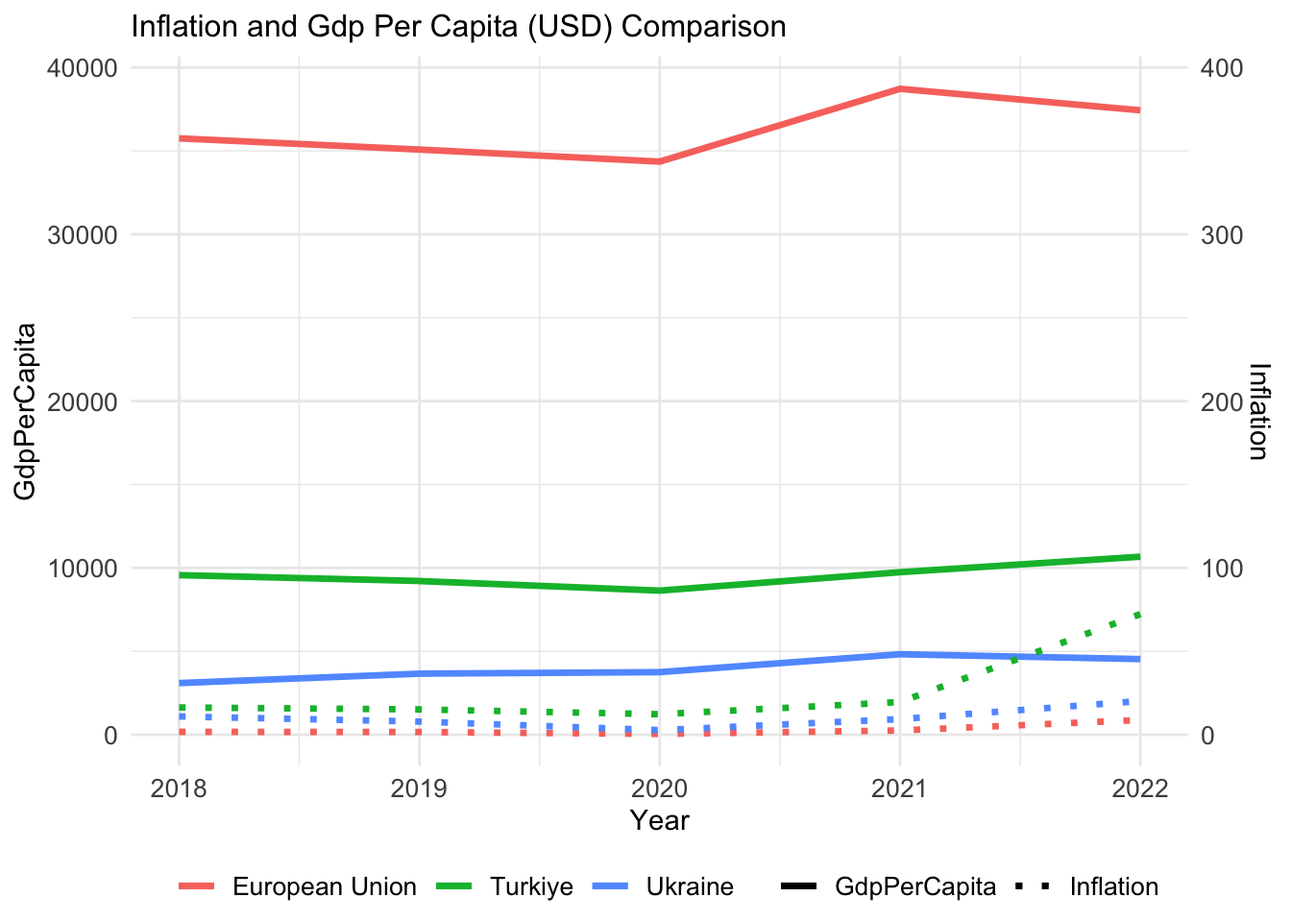
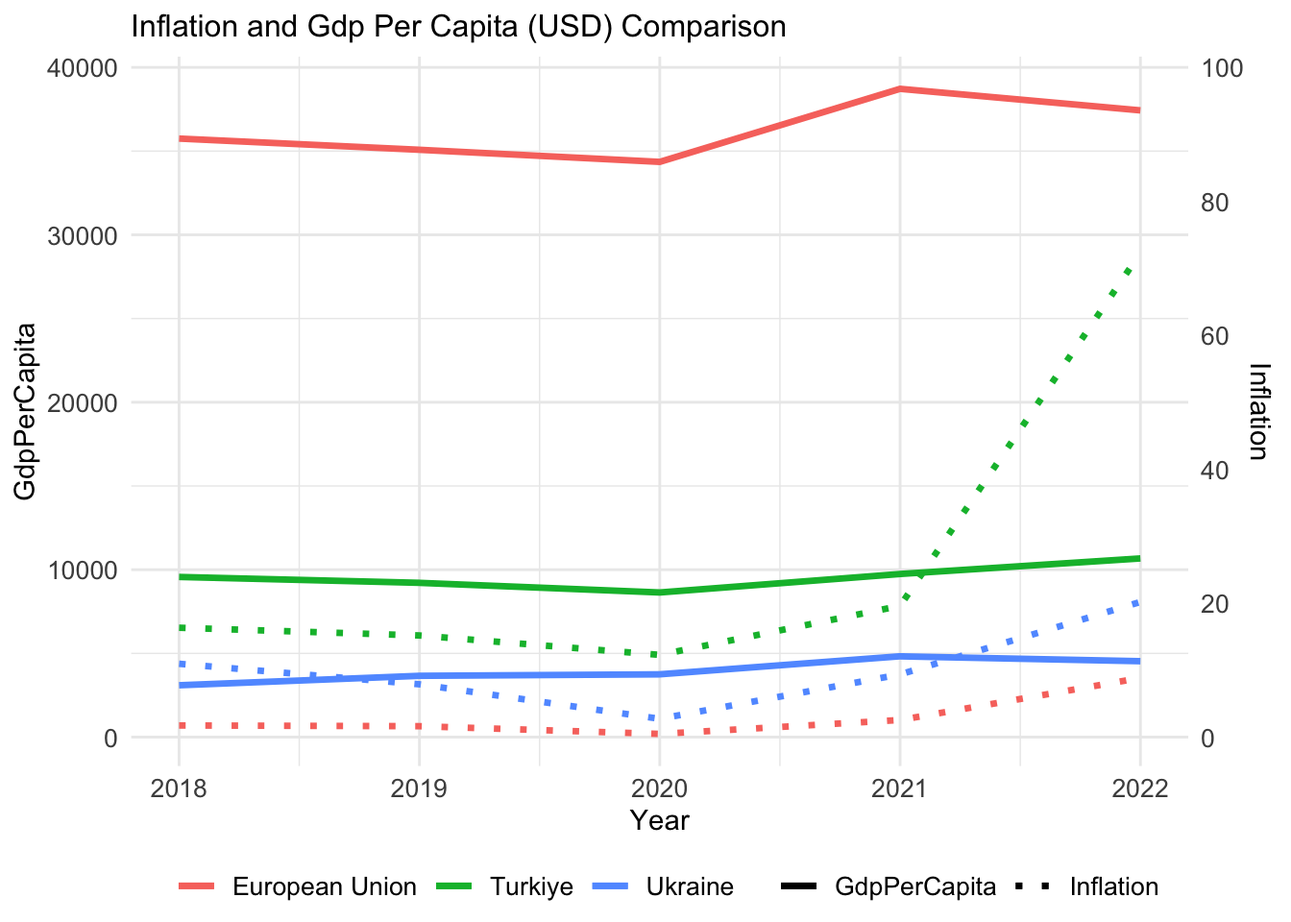
upd

diff --git a/docs/report.html b/docs/report.html
@@ -6,7 +6,7 @@
 
 <meta name="viewport" content="width=device-width, initial-scale=1.0, user-scalable=yes">
 
-<meta name="dcterms.date" content="2023-12-29">
+<meta name="dcterms.date" content="2023-12-30">
 
 <title>Astral Projection’s Progress Journal - Final Report</title>
 <style>
@@ -216,7 +216,7 @@ pre > code.sourceCode > span > a:first-child::before { text-decoration: underlin
     <div>
     <div class="quarto-title-meta-heading">Published</div>
     <div class="quarto-title-meta-contents">
-      <p class="date">December 29, 2023</p>
+      <p class="date">December 30, 2023</p>
     </div>
   </div>
   
@@ -243,17 +243,21 @@ pre > code.sourceCode > span > a:first-child::before { text-decoration: underlin
 <section id="key-takeaways" class="level3">
 <h3 class="anchored" data-anchor-id="key-takeaways">Key Takeaways:</h3>
 <ol type="1">
-<li><p>Turkey’s larger GDP and population compared to Ukraine indicate that Turkey has a greater economic volume.</p></li>
-<li><p>In Ukraine, despite the decrease in population from 2018 to 2022, the age dependency ratio generally follows an upward trend. This could be linked to the younger and working-age population leaving the country due to the war that started in 2022, and potentially losing their lives.</p></li>
-<li><p>The inflation rates in Turkey and Ukraine have significantly increased due to economic and political factors. While high inflation has triggered an economic crisis in Turkey, the ongoing war and political instability in Ukraine have caused inflation to rise.</p></li>
-<li><p>In Turkey, although the unemployment rate showed fluctuations, it remained below the levels of 2018. In Ukraine, there has been a decrease in both male and female labor force participation rates below 2018 levels. This suggests serious issues in the labor markets of both Turkey and Ukraine.</p></li>
+<li><p>This report provides a comparative assessment of the credentials of Turkiye and Ukraine, two candidates for European Union (EU) membership, using World Bank - World Development Indicators data from 2018 to 2022 by using key indicators such as population totals, GDP per capita, age dependency ratios, inflation, unemployment rates, and gender-specific labor force participation rates were essential in this evaluation of their socio-economic landscapes. (LINK row+used)</p></li>
+<li><p>The post- COVID-19 global economic landscape significantly affected these nations. Turkiye, battling the highest inflation among the three entities, showed a dramatically heightened inflation rate in 2022, which was about four times the rate of the previous year.</p></li>
+<li><p>Turkiye’s larger GDP per capita, population, and a comparatively lower age dependency ratio puts it in a potentially advantageous position for EU membership. However, both countries face challenges in labor dynamics such as unemployment and labor force participation rates.</p></li>
+<li><p>The effects of war in Ukraine have contributed to a major decline in the country’s population and an increase in their age dependency ratio due to a decline in the young and potentially working-age population.</p></li>
+<li><p>With its overall economic state and younger population, Turkiye might be slightly in a more favorable position for EU candidacy. However, although both countries possess compelling economic and demographic capacities, they need to address crucial changes in areas such as political stability and economic harmonization to advance their pursuit of EU accession.</p></li>
 </ol>
 </section>
 <section id="outcomes" class="level3">
 <h3 class="anchored" data-anchor-id="outcomes">Outcomes:</h3>
 <section id="gdp-per-capita" class="level4">
 <h4 class="anchored" data-anchor-id="gdp-per-capita">GDP per Capita:</h4>
-<p>The GDP per Capita Comparison graph highlights distinct economic trends for each country/region. Ukraine’s GDP is approximately 5 million, while Turkiye’s is around 10 million, signifying that Turkiye’s GDP is twice the size of Ukraine’s. It’s important to note that these figures are not only influenced by economic trends but also by demographic factors. With Turkiye’s population being 1.5 times larger than Ukraine’s, it further accentuates that Turkiye has a larger economic volume compared to Ukraine.</p>
+<p>The GDP per Capita Comparison graph reveals unique economic trajectories for each country or region. The data shows that the European Union, comprising 27 member countries, consistently maintains the highest GDP per capita among the three regions.</p>
+<p>In 2018, the European Union’s GDP per capita stood at approximately $35,700. It experienced a slight downturn in 2019 and 2020, but rebounded robustly in 2021 to nearly $38,700, and continues to perform strongly in 2022 at about $37,400.</p>
+<p>In contrast, Ukraine’s GDP per capita hovers around $5 million, while Turkiye’s stands near $10 million, indicating that Turkiye’s GDP per capita is double that of Ukraine’s. Moreover, Turkiye’s population is 1.5 times larger than Ukraine’s, affirming its larger economic scale.</p>
+<p>Notably, the European Union’s GDP per capita is over four times that of Turkiye and approximately twelve times that of Ukraine, highlighting the economic strength of the European Union. However, it is crucial to consider the Union’s significantly larger population and diverse economies, which contribute to this superior statistical performance.</p>
 <div class="cell">
 <details>
 <summary>Code</summary>
@@ -279,9 +283,7 @@ pre > code.sourceCode > span > a:first-child::before { text-decoration: underlin
 </section>
 <section id="population-and-age-dependency" class="level4">
 <h4 class="anchored" data-anchor-id="population-and-age-dependency">Population and Age Dependency:</h4>
-<p>Upon examining the data, a clear correlation between population and age dependency ratio can be observed. In both the European Union and in Turkiye and Ukraine, the population and age dependency ratio generally increase together ( except Ukraine for 2022).</p>
-<p>In the European Union, while the population shows a slight increase from the year 2018 to 2022 (from 447.1M to 447.3M), the age dependency ratio also rises during this period, from 54.66 to 56.57. This indicates that as the population ages, older individuals’ dependency on the younger population increases.</p>
-<p>In Turkiye, the population is increasing every year as well (from 81.4M to 84.9M) and the age dependency ratio also rises in a similar way, from 46.30 to 46.77. This points out that Turkiye is also gradually aging.</p>
+<p>In the context of population, both the European Union and Turkiye exhibit a gradual increase over the years examined. The population of the European Union saw a slight increase from 447.1 million in 2018 to 447.3 million in 2022. Turkiye’s growth was more pronounced, rising annually from 81.4 million to 84.9 million. Meanwhile, Ukraine experienced a population significant decline, falling from 44.6 million in 2018 to 38 million in 2022. This could be linked to Ukrainians leaving the country due to war, and potentially losing their lives in the war.</p>
 <div class="cell">
 <details>
 <summary>Code</summary>
@@ -302,8 +304,8 @@ pre > code.sourceCode > span > a:first-child::before { text-decoration: underlin
 <p><img src="report_files/figure-html/unnamed-chunk-6-1.png" class="img-fluid" style="width:100.0%"></p>
 </div>
 </div>
-<p>In Ukraine, despite the population decreased from 2018 to 2022 (from 44.6M to 38M), the age dependency ratio has risen in this interval, from 47.21 to 48.41. However, in 2022 the population experienced a significant drop and dwindled to 38 million, while the age dependency ratio has risen to 52.05. This situation denotes a decrease in the country’s young population and an increase in the elderly population, and hence a significant increase in age dependency. This could be linked to the younger and working-age population leaving the country due to war, and potentially losing their lives in the war.</p>
-<p>Based on these results, the increase in the age dependency ratio as the population ages in all three examples would increase the demand for social and health services. Moreover, this trend implies a decrease in the working population and an increase in the retirement burden.</p>
+<p>When considering the age dependency ratio, a similar concurrently rising trend was observed in the European Union and Turkiye, mirroring the aforementioned population changes. The European Union’s ratio increased from 54.7% in 2018 to 56.6% in 2022, and Turkiye’s rose from 46.3% to 46.8% over the same period, suggesting a broader societal ageing process in these regions.</p>
+<p>Contrary to its population trend, Ukraine’s age dependency ratio also rose, from 47.21 in 2018 to a peak of 52.05 in 2022. This indicates a reduction in the country’s young population and an increase in its elderly population, contributing to a significant rise in age dependency. Such a trend could potentially be attributed to the younger and working-age populations leaving the country due to warfare.</p>
 <div class="cell">
 <details>
 <summary>Code</summary>
@@ -326,9 +328,12 @@ pre > code.sourceCode > span > a:first-child::before { text-decoration: underlin
 <p><img src="report_files/figure-html/unnamed-chunk-7-1.png" class="img-fluid" style="width:100.0%"></p>
 </div>
 </div>
+<p>From the age dependency perspective, it’s notable to highlight that the ratios reveal Turkiye as the youngest among the three. As of 2022, Turkiye’s age dependency is significantly lower than the Ukraine and the European Union. This indicates that Turkiye, comparatively, has a larger proportion of its population in the working-age bracket. This youthful demographic could potentially mean a stronger workforce and consumer market, both are essential drivers for economic growth.</p>
+<p>On the contrary, the European Union records the highest age dependency ratio. This trend suggests a mounting pressure on the active population to provide for the social and healthcare needs of the elderly in the European Union and has important socioeconomic implications, requiring proactive planning and social policy adaptations, particularly in dealing with healthcare demands, retirement schemes, and possibly stimulating birth rates or immigration to ensure future generation replacement.</p>
 </section>
 <section id="inflation" class="level4">
 <h4 class="anchored" data-anchor-id="inflation">Inflation:</h4>
+<p>According to 2018-2022 data, the European Union inflation rate is the lowest while Turkiye’s is the highest. Until 2020, all three entities are showing decreasing inflation rates. However, after Covid-19 pandemic relaxed in 2021, all started showing higher inflation rates, especially Turkiye with a dramatic rise in 2022 almost 4 times higher than previous year.</p>
 <p><strong>Why is inflation decreasing during COVID-19 pandemic?</strong></p>
 <p>During COVID-19 pandemic, the economic landscape underwent a series of fluctuations. Lockdowns and heightened uncertainty led to reduced consumer spending, prompting businesses to lower prices in a bid to stimulate activity. Global supply chains encountered disruptions, resulting in shortages in certain sectors. Nevertheless, overall prices were restrained due to a decrease in economic activity. A positive outcome for consumers emerged as oil prices took a nosedive, acting as a buffer against inflationary pressures. On the flip side, job losses exerted downward pressure on wages. Interestingly, this wage constraint facilitated cost-cutting for businesses, contributing to the overall moderation of inflation. To navigate these challenges, central banks intervened by lowering interest rates to invigorate the economy. While primarily aimed at encouraging spending, these measures also played a pivotal role in maintaining relatively subdued inflation levels amidst the prevailing uncertainties.</p>
 <div class="cell">
@@ -376,33 +381,32 @@ pre > code.sourceCode > span > a:first-child::before { text-decoration: underlin
 <div class="cell">
 <details>
 <summary>Code</summary>
-<div class="sourceCode cell-code" id="cb6"><pre class="sourceCode r code-with-copy"><code class="sourceCode r"><span id="cb6-1"><a href="#cb6-1" aria-hidden="true" tabindex="-1"></a><span class="co"># Veriyi düzenle</span></span>
-<span id="cb6-2"><a href="#cb6-2" aria-hidden="true" tabindex="-1"></a>world_bank_data <span class="ot">&lt;-</span> world_bank_data <span class="sc">%&gt;%</span></span>
-<span id="cb6-3"><a href="#cb6-3" aria-hidden="true" tabindex="-1"></a>  <span class="fu">filter</span>(<span class="sc">!</span><span class="fu">is.na</span>(Inflation))  <span class="co"># NA değerleri filtrele</span></span>
-<span id="cb6-4"><a href="#cb6-4" aria-hidden="true" tabindex="-1"></a></span>
-<span id="cb6-5"><a href="#cb6-5" aria-hidden="true" tabindex="-1"></a>  <span class="fu">ggplot</span>(world_bank_data, <span class="fu">aes</span>(<span class="at">x =</span> Year, <span class="at">group =</span> Country)) <span class="sc">+</span></span>
-<span id="cb6-6"><a href="#cb6-6" aria-hidden="true" tabindex="-1"></a>  <span class="fu">geom_line</span>(<span class="fu">aes</span>(<span class="at">y =</span> GdpPerCapita, <span class="at">color =</span> Country, <span class="at">linetype =</span> <span class="st">"GdpPerCapita"</span>), <span class="at">size =</span> <span class="fl">1.2</span>) <span class="sc">+</span></span>
-<span id="cb6-7"><a href="#cb6-7" aria-hidden="true" tabindex="-1"></a>  <span class="fu">geom_line</span>(<span class="fu">aes</span>(<span class="at">y =</span> Inflation <span class="sc">*</span> <span class="dv">100</span>, <span class="at">color =</span> Country, <span class="at">linetype =</span> <span class="st">"Inflation"</span>), <span class="at">size =</span> <span class="fl">1.2</span>) <span class="sc">+</span></span>
-<span id="cb6-8"><a href="#cb6-8" aria-hidden="true" tabindex="-1"></a>  </span>
+<div class="sourceCode cell-code" id="cb6"><pre class="sourceCode r code-with-copy"><code class="sourceCode r"><span id="cb6-1"><a href="#cb6-1" aria-hidden="true" tabindex="-1"></a>world_bank_data <span class="ot">&lt;-</span> world_bank_data <span class="sc">%&gt;%</span></span>
+<span id="cb6-2"><a href="#cb6-2" aria-hidden="true" tabindex="-1"></a>  <span class="fu">filter</span>(<span class="sc">!</span><span class="fu">is.na</span>(Inflation))  <span class="co"># NA değerleri filtrele</span></span>
+<span id="cb6-3"><a href="#cb6-3" aria-hidden="true" tabindex="-1"></a></span>
+<span id="cb6-4"><a href="#cb6-4" aria-hidden="true" tabindex="-1"></a><span class="fu">ggplot</span>(world_bank_data, <span class="fu">aes</span>(<span class="at">x =</span> Year, <span class="at">group =</span> Country)) <span class="sc">+</span></span>
+<span id="cb6-5"><a href="#cb6-5" aria-hidden="true" tabindex="-1"></a>  <span class="fu">geom_line</span>(<span class="fu">aes</span>(<span class="at">y =</span> GdpPerCapita, <span class="at">color =</span> Country, <span class="at">linetype =</span> <span class="st">"GdpPerCapita"</span>), <span class="at">size =</span> <span class="fl">1.2</span>) <span class="sc">+</span></span>
+<span id="cb6-6"><a href="#cb6-6" aria-hidden="true" tabindex="-1"></a>  <span class="fu">geom_line</span>(<span class="fu">aes</span>(<span class="at">y =</span> Inflation<span class="sc">*</span><span class="dv">400</span>, <span class="at">color =</span> Country, <span class="at">linetype =</span> <span class="st">"Inflation"</span>), <span class="at">size =</span> <span class="fl">1.2</span>) <span class="sc">+</span></span>
+<span id="cb6-7"><a href="#cb6-7" aria-hidden="true" tabindex="-1"></a></span>
+<span id="cb6-8"><a href="#cb6-8" aria-hidden="true" tabindex="-1"></a>  <span class="fu">scale_linetype_manual</span>(<span class="at">values =</span> <span class="fu">c</span>(<span class="st">"GdpPerCapita"</span> <span class="ot">=</span> <span class="st">"solid"</span>, <span class="st">"Inflation"</span> <span class="ot">=</span> <span class="st">"dotted"</span>)) <span class="sc">+</span></span>
 <span id="cb6-9"><a href="#cb6-9" aria-hidden="true" tabindex="-1"></a></span>
-<span id="cb6-10"><a href="#cb6-10" aria-hidden="true" tabindex="-1"></a>  <span class="fu">scale_linetype_manual</span>(<span class="at">values =</span> <span class="fu">c</span>(<span class="st">"GdpPerCapita"</span> <span class="ot">=</span> <span class="st">"solid"</span>, <span class="st">"Inflation"</span> <span class="ot">=</span> <span class="st">"dotted"</span>)) <span class="sc">+</span></span>
-<span id="cb6-11"><a href="#cb6-11" aria-hidden="true" tabindex="-1"></a>  </span>
-<span id="cb6-12"><a href="#cb6-12" aria-hidden="true" tabindex="-1"></a>  <span class="fu">labs</span>(<span class="at">title =</span> <span class="st">"Inflation and Gdp Per Capita (USD) Comparison"</span>,</span>
-<span id="cb6-13"><a href="#cb6-13" aria-hidden="true" tabindex="-1"></a>       <span class="at">x =</span> <span class="st">"Year"</span>, </span>
-<span id="cb6-14"><a href="#cb6-14" aria-hidden="true" tabindex="-1"></a>       <span class="at">y =</span> <span class="st">"GdpPerCapita"</span>,</span>
-<span id="cb6-15"><a href="#cb6-15" aria-hidden="true" tabindex="-1"></a>       <span class="at">color =</span> <span class="st">"Country"</span>,</span>
-<span id="cb6-16"><a href="#cb6-16" aria-hidden="true" tabindex="-1"></a>       <span class="at">linetype =</span> <span class="st">"Indicator"</span>) <span class="sc">+</span></span>
-<span id="cb6-17"><a href="#cb6-17" aria-hidden="true" tabindex="-1"></a>  </span>
-<span id="cb6-18"><a href="#cb6-18" aria-hidden="true" tabindex="-1"></a>  <span class="fu">scale_y_continuous</span>(<span class="at">sec.axis =</span> <span class="fu">sec_axis</span>(<span class="sc">~</span>.<span class="sc">/</span><span class="dv">100</span>, <span class="at">name =</span> <span class="st">"Inflation"</span>)) <span class="sc">+</span></span>
-<span id="cb6-19"><a href="#cb6-19" aria-hidden="true" tabindex="-1"></a>  </span>
-<span id="cb6-20"><a href="#cb6-20" aria-hidden="true" tabindex="-1"></a>  <span class="fu">theme_minimal</span>() <span class="sc">+</span></span>
-<span id="cb6-21"><a href="#cb6-21" aria-hidden="true" tabindex="-1"></a>  <span class="fu">theme</span>(<span class="at">legend.position =</span> <span class="st">"bottom"</span>,   </span>
-<span id="cb6-22"><a href="#cb6-22" aria-hidden="true" tabindex="-1"></a>        <span class="at">legend.title =</span> <span class="fu">element_blank</span>(),</span>
-<span id="cb6-23"><a href="#cb6-23" aria-hidden="true" tabindex="-1"></a>        <span class="at">legend.box =</span> <span class="st">"horizontal"</span>,  </span>
-<span id="cb6-24"><a href="#cb6-24" aria-hidden="true" tabindex="-1"></a>        <span class="at">legend.margin =</span> <span class="fu">margin</span>(<span class="at">t =</span> <span class="dv">0</span>, <span class="at">r =</span> <span class="dv">0</span>, <span class="at">b =</span> <span class="dv">0</span>, <span class="at">l =</span> <span class="dv">0</span>),  </span>
-<span id="cb6-25"><a href="#cb6-25" aria-hidden="true" tabindex="-1"></a>        <span class="at">plot.title =</span> <span class="fu">element_text</span>(<span class="at">size =</span> <span class="dv">12</span>), </span>
-<span id="cb6-26"><a href="#cb6-26" aria-hidden="true" tabindex="-1"></a>        <span class="at">axis.text =</span> <span class="fu">element_text</span>(<span class="at">size =</span> <span class="dv">10</span>),  </span>
-<span id="cb6-27"><a href="#cb6-27" aria-hidden="true" tabindex="-1"></a>        <span class="at">legend.text =</span> <span class="fu">element_text</span>(<span class="at">size =</span> <span class="dv">10</span>))  </span></code><button title="Copy to Clipboard" class="code-copy-button"><i class="bi"></i></button></pre></div>
+<span id="cb6-10"><a href="#cb6-10" aria-hidden="true" tabindex="-1"></a>  <span class="fu">labs</span>(<span class="at">title =</span> <span class="st">"Inflation and Gdp Per Capita (USD) Comparison"</span>,</span>
+<span id="cb6-11"><a href="#cb6-11" aria-hidden="true" tabindex="-1"></a>       <span class="at">x =</span> <span class="st">"Year"</span>, </span>
+<span id="cb6-12"><a href="#cb6-12" aria-hidden="true" tabindex="-1"></a>       <span class="at">y =</span> <span class="st">"GdpPerCapita"</span>,</span>
+<span id="cb6-13"><a href="#cb6-13" aria-hidden="true" tabindex="-1"></a>       <span class="at">color =</span> <span class="st">"Country"</span>,</span>
+<span id="cb6-14"><a href="#cb6-14" aria-hidden="true" tabindex="-1"></a>       <span class="at">linetype =</span> <span class="st">"Indicator"</span>) <span class="sc">+</span></span>
+<span id="cb6-15"><a href="#cb6-15" aria-hidden="true" tabindex="-1"></a></span>
+<span id="cb6-16"><a href="#cb6-16" aria-hidden="true" tabindex="-1"></a>  <span class="fu">scale_y_continuous</span>(<span class="at">name =</span> <span class="st">"GdpPerCapita"</span>,</span>
+<span id="cb6-17"><a href="#cb6-17" aria-hidden="true" tabindex="-1"></a>                     <span class="at">sec.axis =</span> <span class="fu">sec_axis</span>(<span class="sc">~</span>.<span class="sc">/</span><span class="dv">400</span>, <span class="at">name =</span> <span class="st">"Inflation"</span>, <span class="at">breaks =</span> <span class="fu">seq</span>(<span class="dv">0</span>, <span class="dv">100</span>, <span class="at">by =</span> <span class="dv">20</span>))) <span class="sc">+</span></span>
+<span id="cb6-18"><a href="#cb6-18" aria-hidden="true" tabindex="-1"></a></span>
+<span id="cb6-19"><a href="#cb6-19" aria-hidden="true" tabindex="-1"></a>  <span class="fu">theme_minimal</span>() <span class="sc">+</span></span>
+<span id="cb6-20"><a href="#cb6-20" aria-hidden="true" tabindex="-1"></a>  <span class="fu">theme</span>(<span class="at">legend.position =</span> <span class="st">"bottom"</span>,   </span>
+<span id="cb6-21"><a href="#cb6-21" aria-hidden="true" tabindex="-1"></a>        <span class="at">legend.title =</span> <span class="fu">element_blank</span>(),</span>
+<span id="cb6-22"><a href="#cb6-22" aria-hidden="true" tabindex="-1"></a>        <span class="at">legend.box =</span> <span class="st">"horizontal"</span>,  </span>
+<span id="cb6-23"><a href="#cb6-23" aria-hidden="true" tabindex="-1"></a>        <span class="at">legend.margin =</span> <span class="fu">margin</span>(<span class="at">t =</span> <span class="dv">0</span>, <span class="at">r =</span> <span class="dv">0</span>, <span class="at">b =</span> <span class="dv">0</span>, <span class="at">l =</span> <span class="dv">0</span>),  </span>
+<span id="cb6-24"><a href="#cb6-24" aria-hidden="true" tabindex="-1"></a>        <span class="at">plot.title =</span> <span class="fu">element_text</span>(<span class="at">size =</span> <span class="dv">12</span>), </span>
+<span id="cb6-25"><a href="#cb6-25" aria-hidden="true" tabindex="-1"></a>        <span class="at">axis.text =</span> <span class="fu">element_text</span>(<span class="at">size =</span> <span class="dv">10</span>),  </span>
+<span id="cb6-26"><a href="#cb6-26" aria-hidden="true" tabindex="-1"></a>        <span class="at">legend.text =</span> <span class="fu">element_text</span>(<span class="at">size =</span> <span class="dv">10</span>))</span></code><button title="Copy to Clipboard" class="code-copy-button"><i class="bi"></i></button></pre></div>
 </details>
 <div class="cell-output-display">
 <p><img src="report_files/figure-html/unnamed-chunk-10-1.png" class="img-fluid" style="width:100.0%"></p>
@@ -477,11 +481,14 @@ pre > code.sourceCode > span > a:first-child::before { text-decoration: underlin
 </div>
 </div>
 <p>Furthermore, Mahfi Eğilmez explains Turkiye’s contradictory picture between unemployment rate and labor force participation rate as: “If the number of unemployed (<a href="https://data.tuik.gov.tr/Bulten/Index?p=Isgucu-Istatistikleri-2022-49390#:~:text=Tablo%2D3-,Metodolojik,-a%C3%A7%C4%B1klama%20dok%C3%BCman%C4%B1">1</a>) is decreasing while the number of employed is also decreasing, then there is something odd happening. Because normally, if the number of employed is decreasing, the number of unemployed should increase. The answer to this intriguing situation is largely hidden in the broad unemployment rate. It seems people are giving up on finding a job and therefore are not applying.”(<a href="https://www.mahfiegilmez.com/2022/09/issizlik-oran-gercekten-dusuyor-mu.html">2</a>)</p>
+<p>Across the parameters of unemployment and labor force participation, the European Union displays the strongest performance with the lowest unemployment rate and highest labor force participation. Turkiye, despite having higher male labor force participation, struggles with the highest unemployment and low female labor force participation. Ukraine shows lower labor force participation overall. Thus, while the European Union exhibits robust employment health, Turkiye and Ukraine follow, facing challenges in unemployment and labor participation respectively.</p>
 </section>
 </section>
 <section id="conclusion" class="level3">
 <h3 class="anchored" data-anchor-id="conclusion">Conclusion:</h3>
-<p>Turkiye has a larger economic volume compared to Ukraine. This situation is influenced by Turkiye’s higher GDP (Gross Domestic Product) and larger population. With the COVID-19 pandemic, it is observed that the economic crisis in Turkiye has deepened due to extreme inflation. At the same time, fluctuations in Turkiye’s unemployment rate and labor force participation rates indicate a worrisome situation in terms of economic conditions. In Ukraine, instead of macroeconomic crisis, the country’s ongoing war and political instability have led to an increase in inflation rates and caused the young population to migrate out. This situation negatively affects the country’s overall economic stability. While both countries have certain challenges for European Union membership, based on these evaluations and analysis with the current data, it can be concluded that Turkiye is a more suitable candidate compared to Ukraine in terms of economic stability and demographic trends in the population.</p>
+<p>When comparing Ukraine and Turkiye, both candidates for European Union (EU) membership, both countries present vastly different economic and social landscapes. It has been noted that Turkiye has a larger economic scale, boasting a larger population and GDP in comparison to Ukraine.</p>
+<p>Additionally, as Turkiye has a younger demographic compared to both Ukraine and the EU, it potentially has a larger future workforce and consumer market to tap into. On the other hand, both countries face similar challenges in labor dynamics such as unemployment and labor force participation rates. For instance, the start of war in Ukraine has led to a decline in the young and potentially working-age population and an increase in the aged populace. In Turkiye, high inflation rate triggered an economic crisis with a negative impact on the working-age population.</p>
+<p>However, while both Turkiye and Ukraine possess considerable economic and demographic capacities to attain EU standards, both need to make further advancements in areas such as political stability and economic harmonization. With its overall economic state and younger population, Turkiye might be slightly in a more favorable position for EU candidacy.</p>
 </section>
 <section id="resources" class="level3">
 <h3 class="anchored" data-anchor-id="resources">Resources:</h3>

diff --git a/docs/eda.html b/docs/eda.html
@@ -6,7 +6,7 @@
 
 <meta name="viewport" content="width=device-width, initial-scale=1.0, user-scalable=yes">
 
-<meta name="dcterms.date" content="2023-12-29">
+<meta name="dcterms.date" content="2023-12-30">
 
 <title>Astral Projection’s Progress Journal - Exploratory Data Analysis</title>
 <style>
@@ -219,7 +219,7 @@ pre > code.sourceCode > span > a:first-child::before { text-decoration: underlin
     <div>
     <div class="quarto-title-meta-heading">Published</div>
     <div class="quarto-title-meta-contents">
-      <p class="date">December 29, 2023</p>
+      <p class="date">December 30, 2023</p>
     </div>
   </div>
   
@@ -495,7 +495,7 @@ pre > code.sourceCode > span > a:first-child::before { text-decoration: underlin
 <section id="key-findings" class="level3">
 <h3 class="anchored" data-anchor-id="key-findings">Key Findings:</h3>
 <section id="total-population-comparison" class="level4">
-<h4 class="anchored" data-anchor-id="total-population-comparison">Total Population Comparison:</h4>
+<h4 class="anchored" data-anchor-id="total-population-comparison"><strong>Total Population Comparison:</strong></h4>
 <p>While the European Union’s population remains stable, Turkey demonstrates a steady increase, and Ukraine experiences fluctuations with a notable decline in 2022.</p>
 <div class="cell">
 <details>
@@ -527,8 +527,11 @@ pre > code.sourceCode > span > a:first-child::before { text-decoration: underlin
 </div>
 </section>
 <section id="gdp-per-capita-comparison" class="level4">
-<h4 class="anchored" data-anchor-id="gdp-per-capita-comparison">GDP per Capita Comparison:</h4>
-<p>The GDP per Capita Comparison graph highlights distinct economic trends for each country/region. The European Union faced a modest decline, Turkey experienced fluctuations with an increase in 2022, and Ukraine showed growth until 2021, with decreasing trend in 2022.</p>
+<h4 class="anchored" data-anchor-id="gdp-per-capita-comparison"><strong>GDP per Capita Comparison:</strong></h4>
+<p>The GDP per Capita Comparison graph reveals unique economic trajectories for each country or region. The data shows that the European Union, comprising 27 member countries, consistently maintains the highest GDP per capita among the three regions.</p>
+<p>In 2018, the European Union’s GDP per capita stood at approximately $35,700. It experienced a slight downturn in 2019 and 2020, but rebounded robustly in 2021 to nearly $38,700, and continues to perform strongly in 2022 at about $37,400.</p>
+<p>In contrast, Ukraine’s GDP per capita hovers around $5 million, while Turkiye’s stands near $10 million, indicating that Turkiye’s GDP per capita is double that of Ukraine’s. Moreover, Turkiye’s population is 1.5 times larger than Ukraine’s, affirming its larger economic scale.</p>
+<p>Notably, the European Union’s GDP per capita is over four times that of Turkiye and approximately twelve times that of Ukraine, highlighting the economic strength of the European Union. However, it is crucial to consider the Union’s significantly larger population and diverse economies, which contribute to this superior statistical performance.</p>
 <div class="cell">
 <details>
 <summary>Code</summary>
@@ -553,7 +556,7 @@ pre > code.sourceCode > span > a:first-child::before { text-decoration: underlin
 </div>
 </section>
 <section id="age-dependency-ratio-comparison" class="level4">
-<h4 class="anchored" data-anchor-id="age-dependency-ratio-comparison">Age Dependency Ratio Comparison:</h4>
+<h4 class="anchored" data-anchor-id="age-dependency-ratio-comparison"><strong>Age Dependency Ratio Comparison:</strong></h4>
 <p>The Age Dependency Ratio in the European Union increased slightly, Turkey’s ratio remains quite stable. Ukraine experienced a dramatic increase in 2022, suggesting changes in the demographic structure.</p>
 <div class="cell">
 <details>
@@ -579,7 +582,7 @@ pre > code.sourceCode > span > a:first-child::before { text-decoration: underlin
 </div>
 </section>
 <section id="inflation-rate-comparison" class="level4">
-<h4 class="anchored" data-anchor-id="inflation-rate-comparison">Inflation Rate Comparison:</h4>
+<h4 class="anchored" data-anchor-id="inflation-rate-comparison"><strong>Inflation Rate Comparison:</strong></h4>
 <p>The graph depicts the inflation rates for three different countries/regions over the years 2018 to 2022: European Union, Turkey, and Ukraine.</p>
 <ul>
 <li><p>The European Union generally had lower inflation rates compared to Turkey and Ukraine, with some fluctuations.</p></li>

diff --git a/docs/assignment1.html b/docs/assignment1.html
@@ -6,7 +6,7 @@
 
 <meta name="viewport" content="width=device-width, initial-scale=1.0, user-scalable=yes">
 
-<meta name="dcterms.date" content="2023-12-29">
+<meta name="dcterms.date" content="2023-12-30">
 
 <title>Astral Projection’s Progress Journal - 2&nbsp; Preprocessing</title>
 <style>
@@ -218,7 +218,7 @@ pre > code.sourceCode > span > a:first-child::before { text-decoration: underlin
     <div>
     <div class="quarto-title-meta-heading">Published</div>
     <div class="quarto-title-meta-contents">
-      <p class="date">December 29, 2023</p>
+      <p class="date">December 30, 2023</p>
     </div>
   </div>
   
